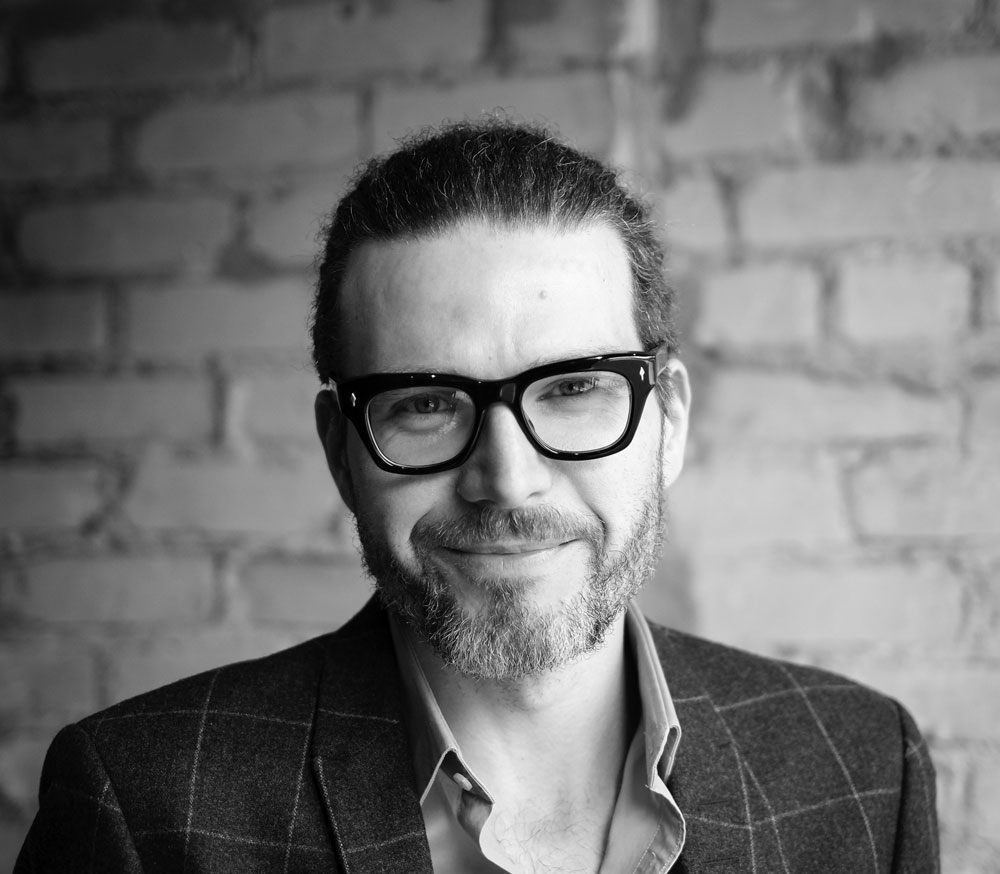
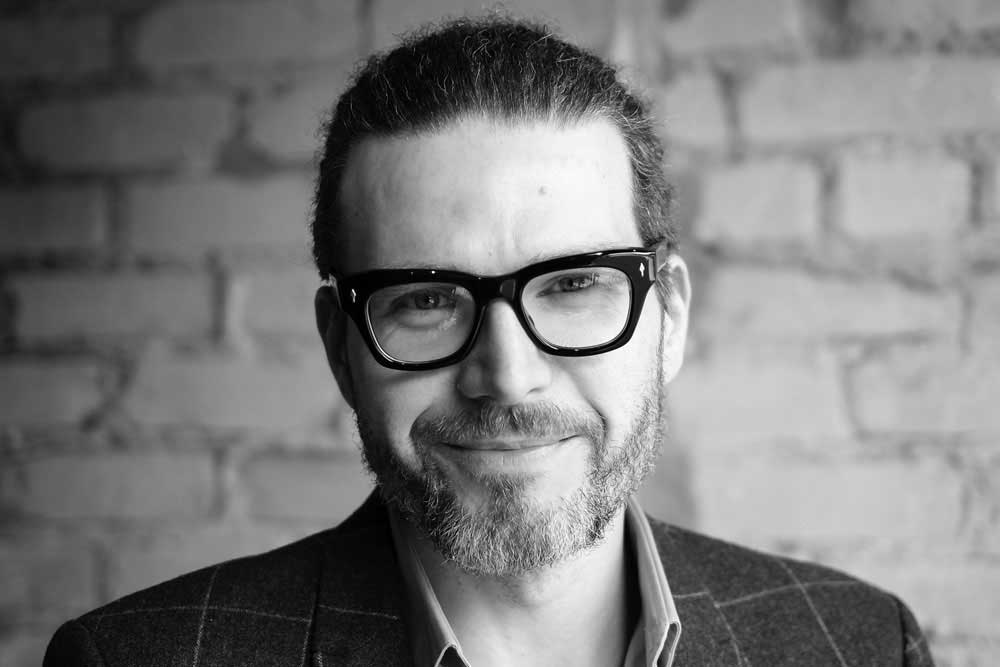
Make the face BIGGER

diff --git a/main.scss b/main.scss
@@ -1977,3 +1977,7 @@ left: 0;
 width: 100%;
 height: 100%;
 }
+
+#experience #main >  header {
+ padding: 40em 3em 3em 3em;
+}

diff --git a/experience.md b/experience.md
@@ -1,6 +1,6 @@
 ---
 layout: page-alt
-title-onpage: <br /><br /><br /><br />
+title-onpage: 
 title: Phillip Smith's Experience
 image: /files/phillipadsmith-high-resolution-bw.jpg
 slug: experience
